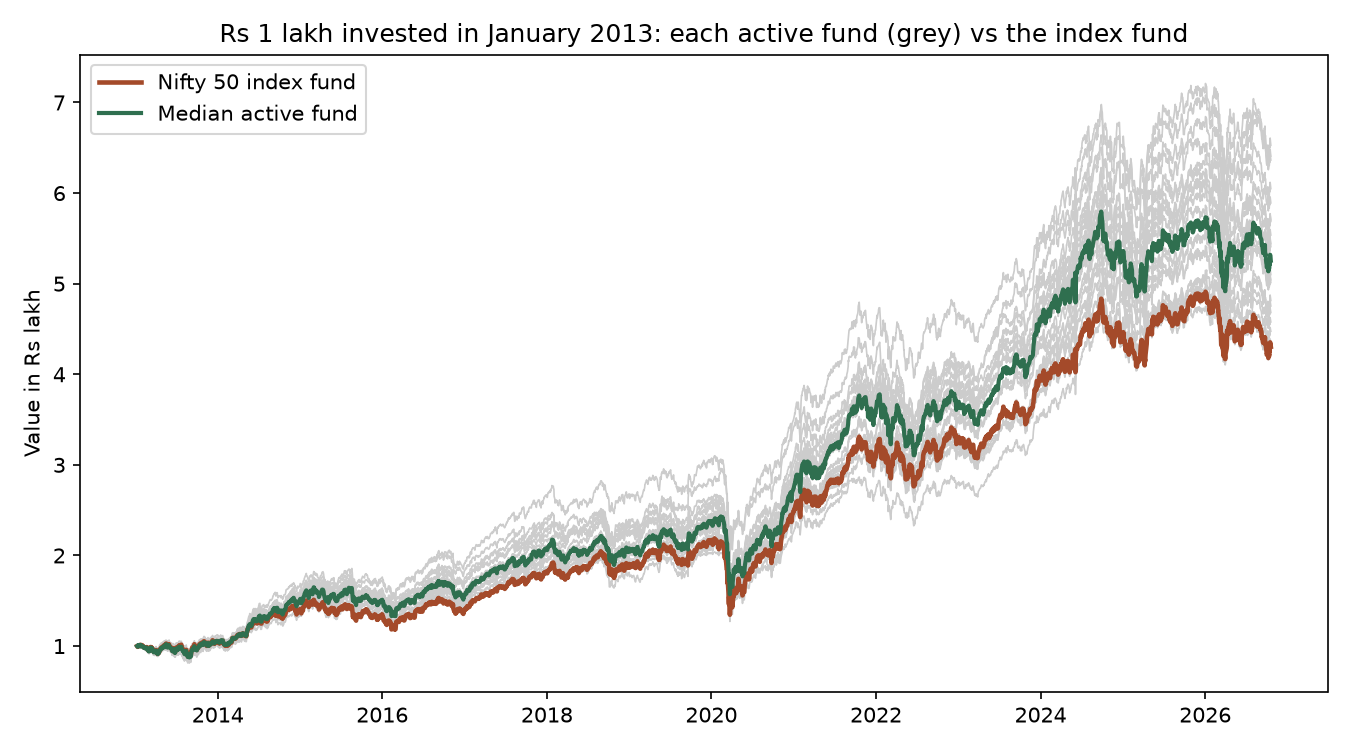
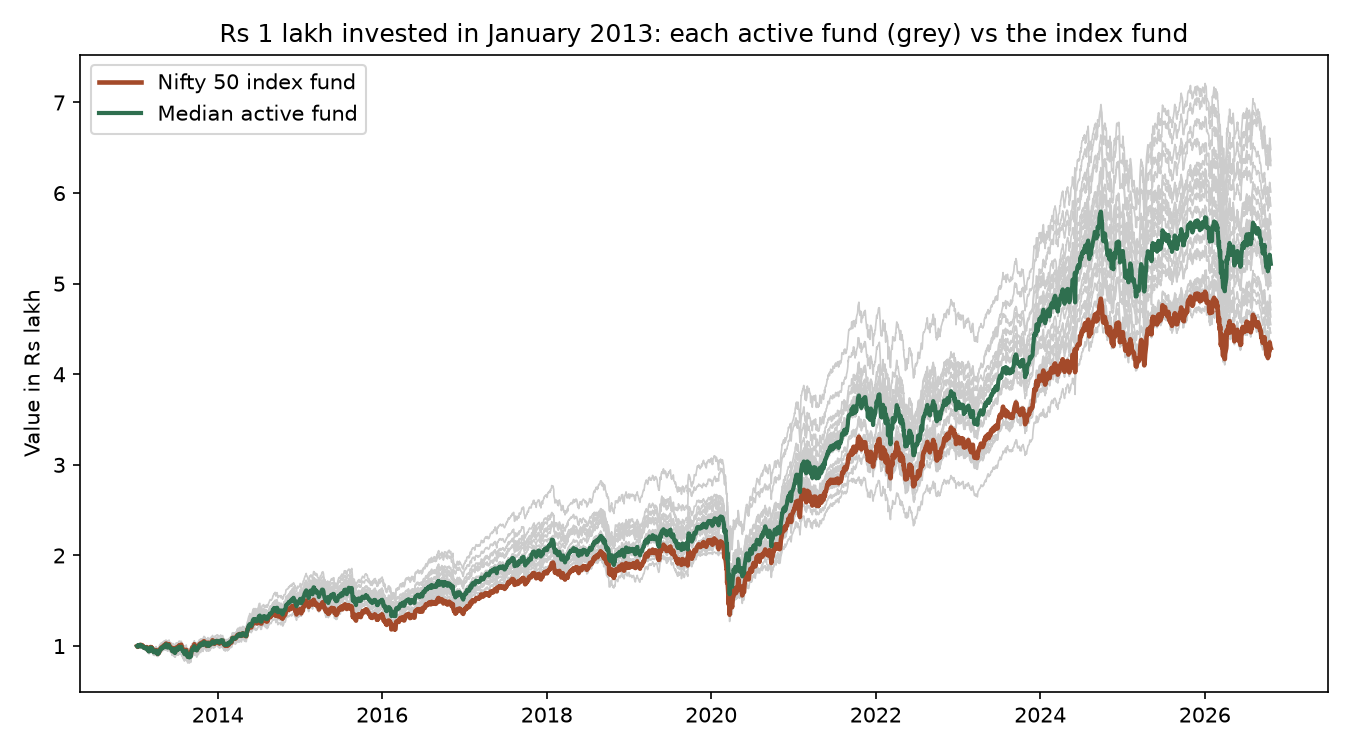
Data refresh: NAVs to 2026-10-22

diff --git a/README.md b/README.md
@@ -5,7 +5,7 @@
 **Short answer:** Over 2013–2026, yes: 19 of 20 surviving active large-cap funds beat the UTI Nifty 50 Index Fund. But it is **streaky**, and the full-period number flatters active funds because of **survivorship bias**. Active funds won almost every 3-year window up to 2018, then most of them *lost* to the index from 2019 to 2021, and they have been winning again since 2024.
 
 <!-- latest -->
-**Latest data: 19 Oct 2026.** Over 13.8 years, the Nifty 50 index fund returned 11.18% a year; 19 of 20 surviving active funds beat it. Right now, 100% of active funds are ahead of the index over the past 3 years.
+**Latest data: 21 Oct 2026.** Over 13.8 years, the Nifty 50 index fund returned 11.14% a year; 19 of 20 surviving active funds beat it. Right now, 100% of active funds are ahead of the index over the past 3 years.
 <!-- /latest -->
 
 ## Data
